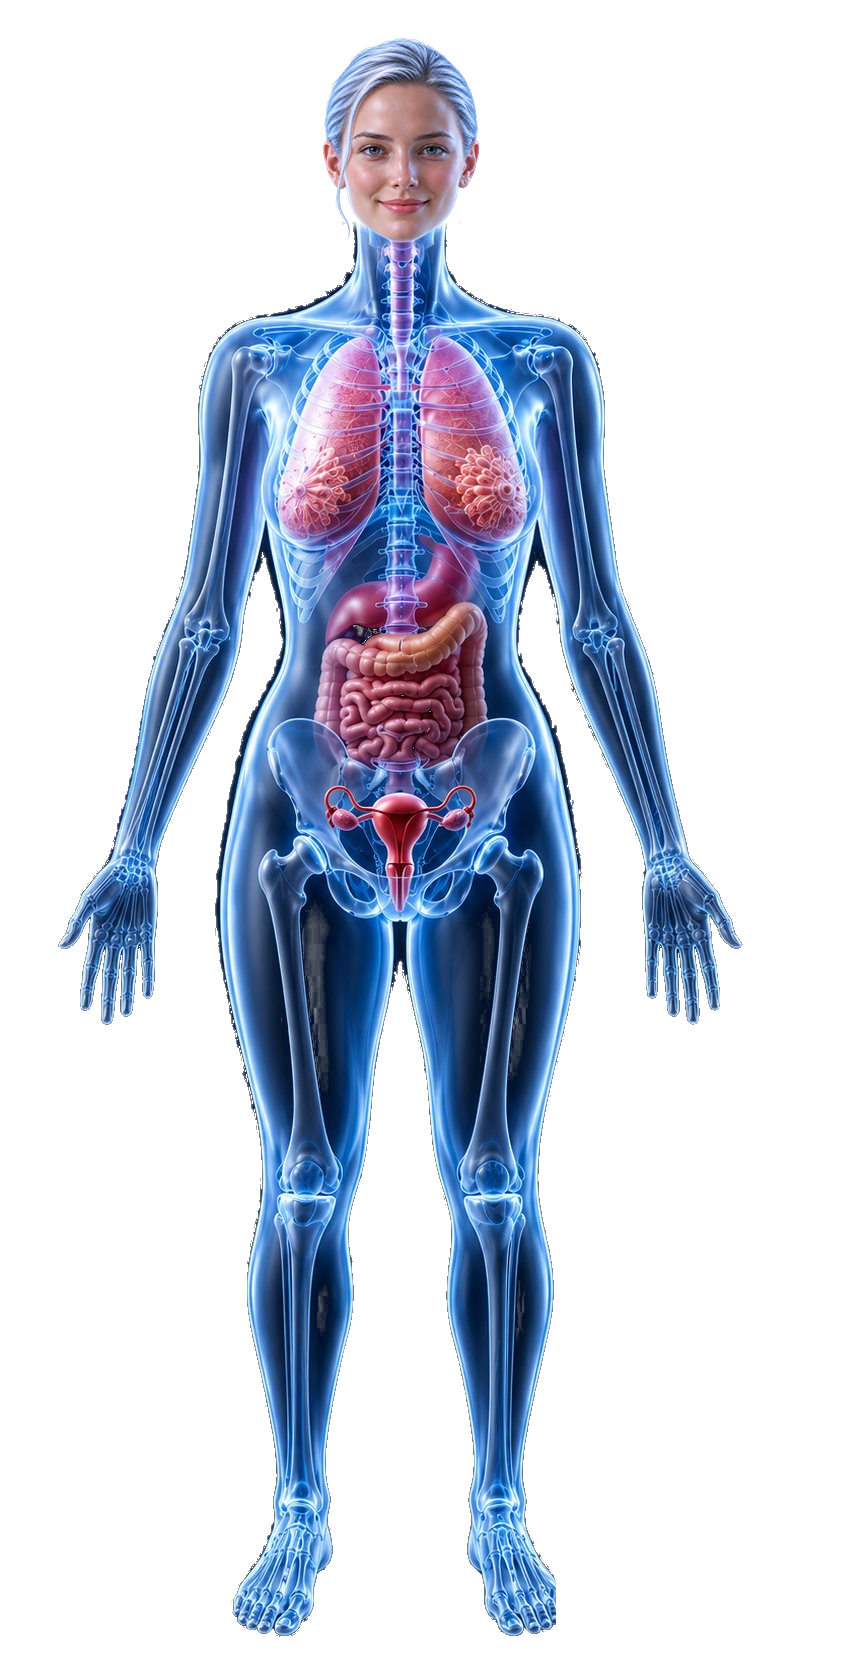
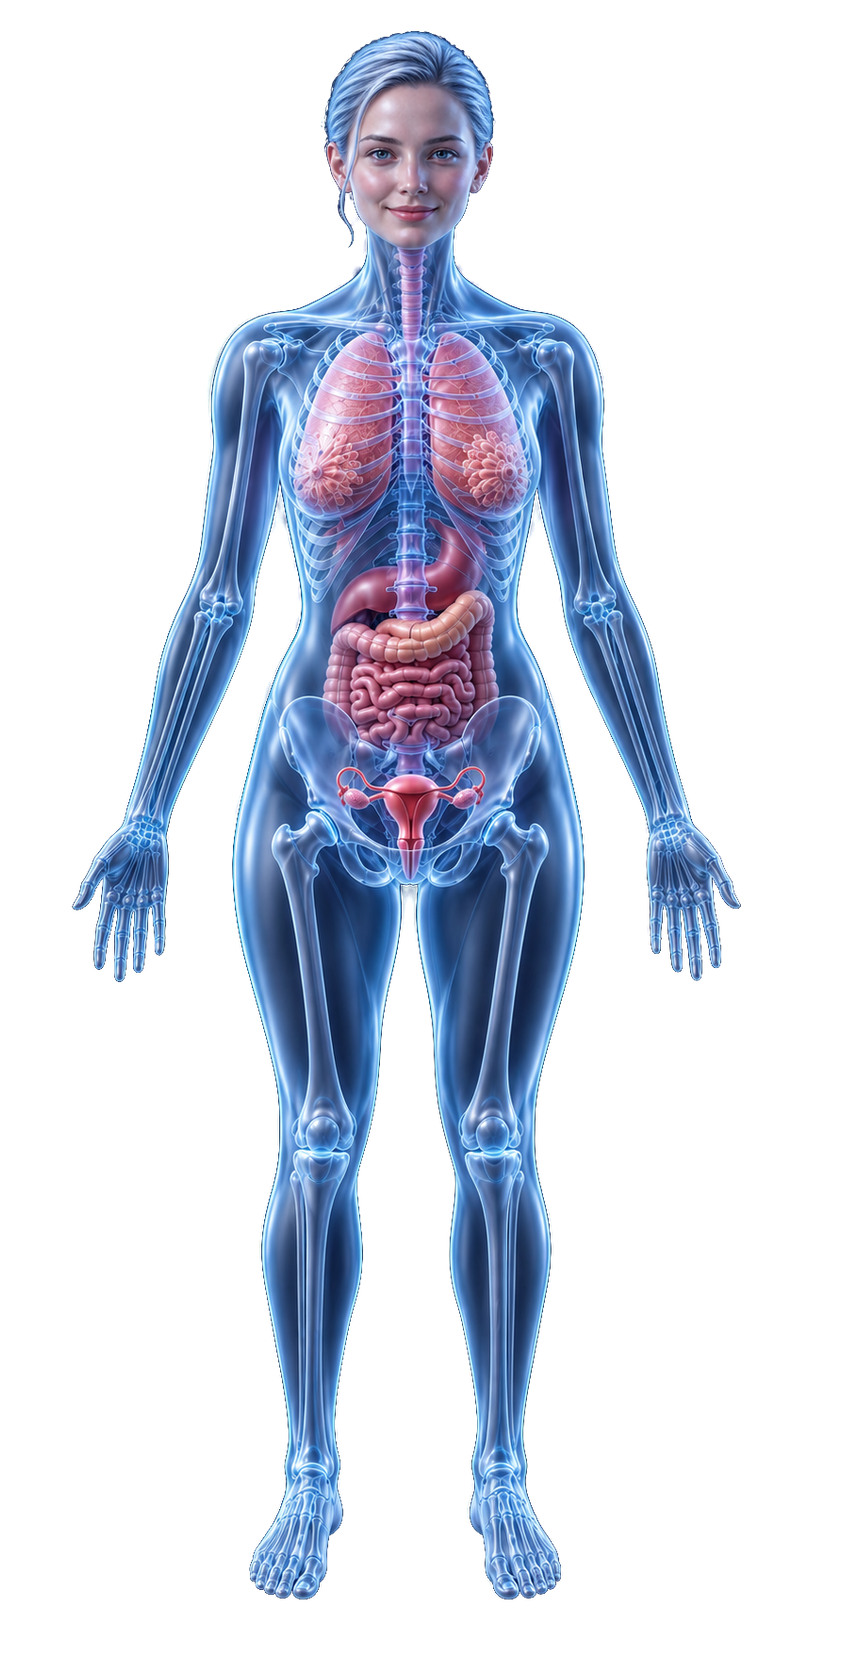
Replace homepage anatomy figure and retrace selection zones

Changed region(s): [[0.0618, 0.0, 0.8955, 0.9952]]

diff --git a/components/Hero.jsx b/components/Hero.jsx
@@ -121,70 +121,56 @@ const FACH_NAMES = {
         Muskuloskelettales:'اسکلتی-عضلانی', Technik:'تکنیک و فیزیک' },
 }
 
-// Hotspots traced in the displayed 842 × 1672 image coordinate system.
-// Broad extremity paths come first; smaller anatomical regions sit above them.
+// Paths are traced in the illustration's 887 × 1774 source coordinates.
+// Limb paths sit behind the more specific torso and pelvic regions.
 const ZONES = [
   {
     id: 'Muskuloskelettales',
-    transform: 'translate(8 0)',
-    d: 'M246 318 C225 324 211 340 205 365 C198 400 196 450 197 493 C196 535 188 568 177 607 L158 672 C149 704 141 738 136 768 L125 815 C119 842 105 866 85 891 C72 907 62 923 58 938 C59 946 64 951 72 953 L78 978 C80 987 87 990 94 984 L99 1005 C102 1015 110 1017 116 1008 L121 1016 C126 1024 136 1020 138 1011 L143 1008 C151 1013 158 1006 156 995 L151 965 C160 952 161 932 158 909 C155 887 158 868 170 848 C183 827 188 806 194 781 L209 744 L224 696 L237 647 L247 600 C256 558 262 518 263 481 L264 411 C266 374 277 343 298 321 C280 317 262 316 246 318 Z',
+    d: 'M287 339 C247 345 224 376 222 413 C219 452 228 473 220 503 C215 532 210 575 203 606 C198 631 185 644 176 668 C166 692 162 721 157 751 C149 798 137 849 125 878 C113 890 100 907 91 927 C84 941 77 952 75 961 Q73 968 81 965 C91 961 102 943 109 936 C103 956 97 995 96 1015 Q97 1031 104 1026 C111 1018 112 988 118 975 L118 1032 Q120 1046 127 1039 C133 1034 134 987 137 974 C138 986 136 1022 141 1029 Q147 1034 151 1021 L156 971 C159 982 158 1004 163 1013 Q169 1018 172 1005 L175 936 C176 908 168 899 174 879 C181 852 191 826 203 801 C219 766 237 734 249 700 C261 673 268 647 270 620 C275 581 284 545 293 515 C300 481 300 441 302 405 C304 375 309 357 318 330 Q303 332 287 339 Z',
   },
   {
     id: 'Muskuloskelettales',
-    transform: 'translate(808 0) scale(-1 1)',
-    d: 'M246 318 C225 324 211 340 205 365 C198 400 196 450 197 493 C196 535 188 568 177 607 L158 672 C149 704 141 738 136 768 L125 815 C119 842 105 866 85 891 C72 907 62 923 58 938 C59 946 64 951 72 953 L78 978 C80 987 87 990 94 984 L99 1005 C102 1015 110 1017 116 1008 L121 1016 C126 1024 136 1020 138 1011 L143 1008 C151 1013 158 1006 156 995 L151 965 C160 952 161 932 158 909 C155 887 158 868 170 848 C183 827 188 806 194 781 L209 744 L224 696 L237 647 L247 600 C256 558 262 518 263 481 L264 411 C266 374 277 343 298 321 C280 317 262 316 246 318 Z',
+    d: 'M568 333 C602 339 628 363 634 402 C642 440 632 470 638 500 C643 533 647 579 656 614 C662 637 674 650 682 671 C693 696 697 727 702 755 C710 808 720 850 733 876 C748 891 764 911 770 933 C778 947 782 958 783 962 Q780 968 772 961 L752 936 C752 946 755 959 757 973 L762 1019 Q761 1034 754 1030 C748 1027 745 993 740 978 L743 1030 Q741 1042 734 1039 C729 1035 724 996 721 980 L721 1030 Q718 1036 712 1030 C708 1024 705 993 702 977 L699 1006 Q696 1017 689 1012 C683 1006 685 983 684 966 L683 927 C680 909 689 893 682 873 C674 847 665 825 652 797 C637 766 621 739 609 702 C597 676 591 650 589 624 C583 586 576 547 566 516 C558 484 559 447 557 410 C556 376 550 352 543 326 Q557 329 568 333 Z',
   },
   {
     id: 'Muskuloskelettales',
-    transform: 'translate(8 0)',
-    d: 'M230 920 C218 960 225 1005 241 1050 C250 1090 257 1130 261 1160 C260 1200 250 1230 250 1260 C252 1320 258 1365 270 1415 C278 1450 278 1490 270 1530 C258 1560 242 1590 234 1620 C250 1645 285 1655 310 1642 C320 1630 325 1605 329 1570 C326 1530 322 1485 326 1450 C333 1400 340 1350 345 1300 C349 1250 355 1200 363 1150 C371 1100 381 1050 389 1000 C395 970 394 940 375 920 C330 900 275 900 230 920 Z',
+    d: 'M246 879 C237 914 243 957 251 992 C259 1032 271 1075 283 1119 C291 1148 295 1182 292 1221 C290 1250 278 1277 275 1305 C272 1337 275 1364 283 1391 C290 1422 296 1450 299 1481 C303 1511 303 1534 299 1557 C298 1575 301 1591 293 1607 C285 1623 271 1636 265 1654 C259 1666 260 1681 267 1686 Q273 1690 279 1688 Q284 1697 292 1694 Q301 1697 307 1692 Q319 1701 326 1694 C334 1688 341 1667 344 1650 C348 1630 357 1611 360 1597 C362 1579 353 1563 354 1547 C349 1508 355 1468 361 1430 C370 1391 381 1356 382 1320 C383 1294 374 1274 375 1251 C378 1224 390 1202 394 1174 C400 1140 398 1100 404 1071 C410 1033 420 1000 422 966 C425 939 416 917 407 897 C376 878 300 867 246 879 Z',
   },
   {
     id: 'Muskuloskelettales',
-    transform: 'translate(808 0) scale(-1 1)',
-    d: 'M230 920 C218 960 225 1005 241 1050 C250 1090 257 1130 261 1160 C260 1200 250 1230 250 1260 C252 1320 258 1365 270 1415 C278 1450 278 1490 270 1530 C258 1560 242 1590 234 1620 C250 1645 285 1655 310 1642 C320 1630 325 1605 329 1570 C326 1530 322 1485 326 1450 C333 1400 340 1350 345 1300 C349 1250 355 1200 363 1150 C371 1100 381 1050 389 1000 C395 970 394 940 375 920 C330 900 275 900 230 920 Z',
+    d: 'M614 879 C622 916 618 954 610 988 C602 1031 591 1073 579 1110 C571 1145 563 1175 564 1218 C565 1249 576 1275 580 1306 C583 1338 578 1364 572 1391 C563 1426 558 1452 555 1481 C550 1509 550 1533 554 1555 C555 1574 551 1591 561 1608 C572 1624 585 1644 591 1662 C596 1675 590 1686 583 1687 Q578 1693 572 1691 Q564 1700 554 1693 Q549 1697 543 1692 Q535 1699 529 1694 C519 1687 516 1664 511 1648 C505 1629 495 1610 493 1596 C492 1578 501 1563 501 1546 C506 1510 500 1467 495 1432 C487 1391 476 1357 474 1323 C472 1298 479 1274 479 1250 C475 1223 464 1202 462 1172 C457 1141 458 1105 453 1070 C449 1037 440 1003 439 969 C437 942 444 918 454 898 C484 879 562 865 614 879 Z',
   },
   {
     id: 'Thorax',
-    transform: 'translate(8 0)',
-    d: 'M270 337 C310 327 350 324 375 330 C388 340 392 360 400 374 C408 360 412 340 425 330 C450 324 490 327 530 337 C540 382 540 442 530 488 C525 514 520 536 516 552 C480 558 449 536 426 524 C410 516 390 516 374 524 C351 536 320 558 284 552 C280 536 275 514 270 488 C260 442 260 382 270 337 Z',
+    d: 'M304 354 C335 343 363 335 391 332 Q430 355 470 332 C495 334 524 344 552 354 C568 402 568 458 563 510 C560 545 552 581 549 601 C516 588 483 585 453 570 Q430 559 408 570 C377 585 346 588 312 601 C308 578 300 545 297 510 C292 455 292 400 304 354 Z',
   },
   {
     id: 'Abdomen',
-    transform: 'translate(8 0)',
-    // Share the diaphragm and pelvic brim with adjacent regions: no overlap.
-    d: 'M284 552 C320 558 351 536 374 524 C390 516 410 516 426 524 C449 536 480 558 516 552 C509 590 508 621 515 650 C518 674 527 700 534 726 C503 708 478 723 455 752 C437 770 419 779 400 780 C381 779 363 770 345 752 C322 723 297 708 266 726 C273 700 282 674 285 650 C292 621 291 590 284 552 Z',
+    d: 'M312 601 C346 588 377 585 408 570 Q430 559 453 570 C483 585 516 588 549 601 C542 636 543 671 551 699 C555 716 562 731 570 748 C539 732 519 740 492 766 C468 790 453 807 430 811 C406 807 392 790 368 766 C342 740 320 732 289 748 C297 731 304 716 309 698 C317 671 318 636 312 601 Z',
   },
   {
     id: 'Becken',
-    transform: 'translate(8 0)',
-    d: 'M266 726 C297 708 322 723 345 752 C363 770 381 779 400 780 C419 779 437 770 455 752 C478 723 503 708 534 726 C548 750 558 780 568 820 C576 850 581 880 580 910 C578 932 570 949 555 960 C530 974 500 978 470 968 C444 958 424 938 410 914 C406 907 403 903 400 903 C397 903 394 907 390 914 C376 938 356 958 330 968 C300 978 270 974 245 960 C230 949 222 932 220 910 C219 880 224 850 232 820 C242 780 252 750 266 726 Z',
+    d: 'M289 748 C320 732 342 740 368 766 C392 790 406 807 430 811 C453 807 468 790 492 766 C519 740 539 732 570 748 C590 785 608 837 613 888 C615 905 607 924 583 934 C550 948 515 945 488 932 C464 920 448 910 430 926 C413 910 397 920 373 932 C344 945 311 948 278 934 C255 924 246 905 248 888 C254 838 269 785 289 748 Z',
   },
   {
     id: 'Neuroradiologie',
-    transform: 'translate(-5 0)',
-    d: 'M421 36 C444 37 466 48 478 68 C486 82 488 101 486 121 C493 124 496 134 493 149 C490 164 483 176 475 181 C471 197 462 212 449 223 C440 231 431 236 421 238 C409 236 398 231 386 223 C371 213 361 198 357 181 C348 176 340 164 337 149 C334 134 338 123 346 119 C343 99 346 80 356 65 C370 46 396 37 421 36 Z',
+    d: 'M430 34 C478 32 510 62 518 109 C522 129 518 145 517 151 C524 157 520 180 512 191 Q507 203 496 206 C485 239 461 262 432 263 C406 262 381 240 370 206 Q358 204 352 191 C344 179 341 158 347 151 C340 121 345 92 358 69 C374 43 402 33 430 34 Z',
   },
   {
     id: 'Brust',
-    transform: 'translate(8 0)',
-    d: 'M302 444 C317 431 342 436 359 451 C376 467 381 491 370 514 C358 537 335 550 311 548 C291 547 277 534 274 514 C271 491 280 462 302 444 Z',
+    d: 'M329 456 C349 449 370 460 382 478 C395 499 390 520 376 537 C363 554 339 557 320 545 C302 534 293 514 297 495 C300 478 311 463 329 456 Z',
   },
   {
     id: 'Brust',
-    transform: 'translate(8 0)',
-    d: 'M498 444 C483 431 458 436 441 451 C424 467 419 491 430 514 C442 537 465 550 489 548 C509 547 523 534 526 514 C529 491 520 462 498 444 Z',
+    d: 'M531 456 C511 449 490 460 478 478 C465 499 470 520 484 537 C497 554 521 557 540 545 C558 534 567 514 563 495 C560 478 549 463 531 456 Z',
   },
   {
     id: 'Wirbelsaeule',
-    transform: 'translate(8 0)',
-    // Stop at the exposed spine; abdominal organs cover the lower vertebrae.
-    d: 'M390 308 C387 350 390 388 390 425 C388 462 390 501 391 535 C391 552 387 568 388 582 L412 582 C413 568 409 552 409 535 C410 501 412 462 410 425 C410 388 413 350 410 308 Z',
+    d: 'M420 356 Q432 360 444 356 C445 401 446 446 445 488 L445 554 C447 574 448 604 448 627 L417 627 C417 605 419 576 419 554 L420 488 C418 448 419 403 420 356 Z',
   },
   {
     id: 'Hals',
-    transform: 'translate(-5 0)',
-    d: 'M366 207 C367 225 371 245 371 263 C371 276 362 288 348 298 C365 307 387 313 413 315 C439 313 461 307 483 298 C468 288 460 276 456 263 C455 245 453 225 463 207 C449 228 436 239 413 239 C391 239 378 228 366 207 Z',
+    d: 'M385 232 C398 250 414 262 432 263 C451 262 469 251 479 232 C476 252 474 278 486 291 C498 306 520 318 549 327 C519 342 481 345 466 354 Q430 365 396 354 C372 346 342 342 315 327 C345 318 368 306 379 290 C389 276 389 251 385 232 Z',
   },
 ]
 
@@ -361,7 +347,7 @@ export default function Hero() {
 
             <svg className={styles.zoneSvg} viewBox="0 0 842 1672" preserveAspectRatio="xMidYMin meet" aria-label={hintLabel}>
               <image data-home-anatomy href={HOME_ANATOMY_SRC} width="842" height="1672" className={styles.bodyImg} pointerEvents="none" />
-              <g transform="translate(-8 0)">
+              <g transform="translate(3 0) scale(0.942503)">
                 {ZONES.map((zone,i)=>{
                   const isHov = hovered===zone.id
                   const color = FACH_DATA[zone.id]?.color||'#f97316'
@@ -373,7 +359,6 @@ export default function Hero() {
                     strokeWidth: '4',
                     strokeLinejoin: 'round',
                     fillRule: 'evenodd',
-                    transform: zone.transform,
                     style: { cursor:'pointer', transition:'fill 0.2s,stroke 0.2s' },
                     onPointerEnter: (event) => { if (event.pointerType === 'mouse') setHovered(zone.id) },
                     onPointerLeave: (event) => { if (event.pointerType === 'mouse') setHovered(null) },
